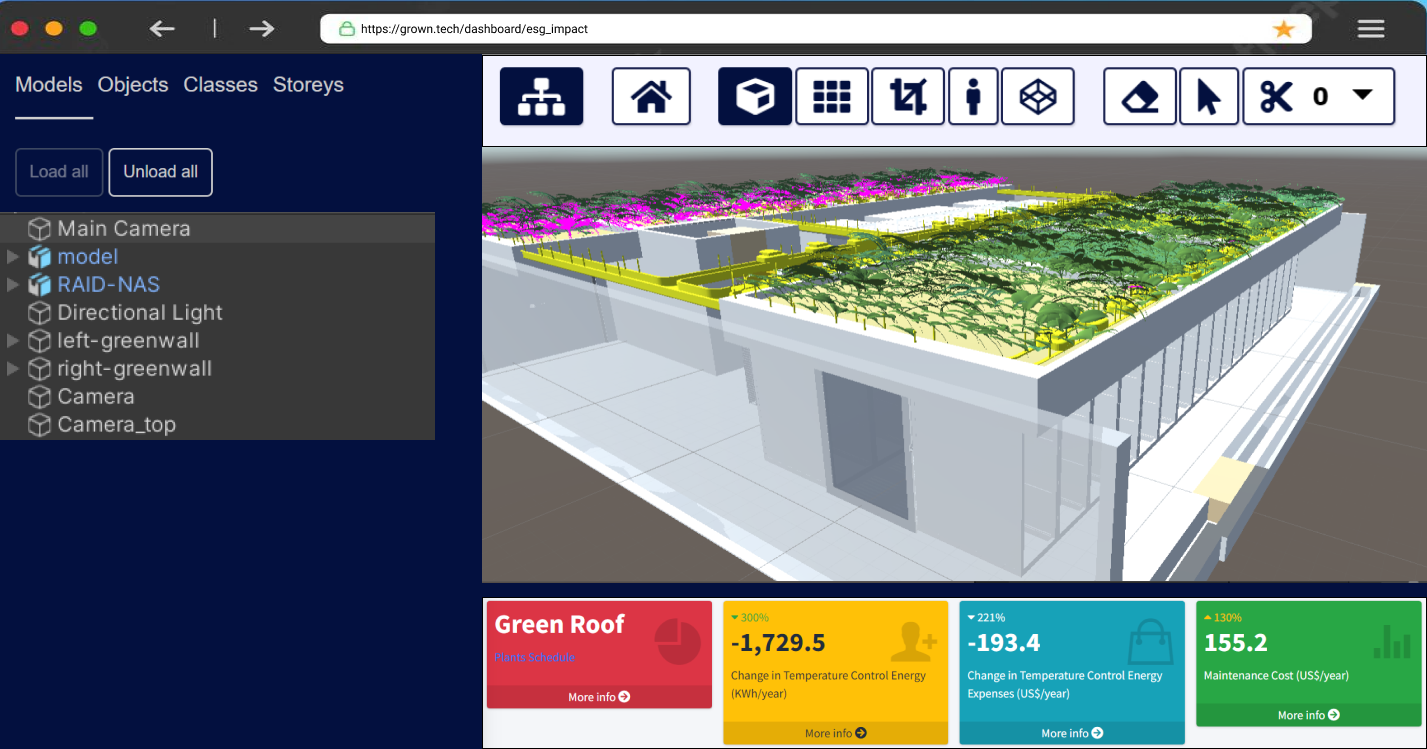
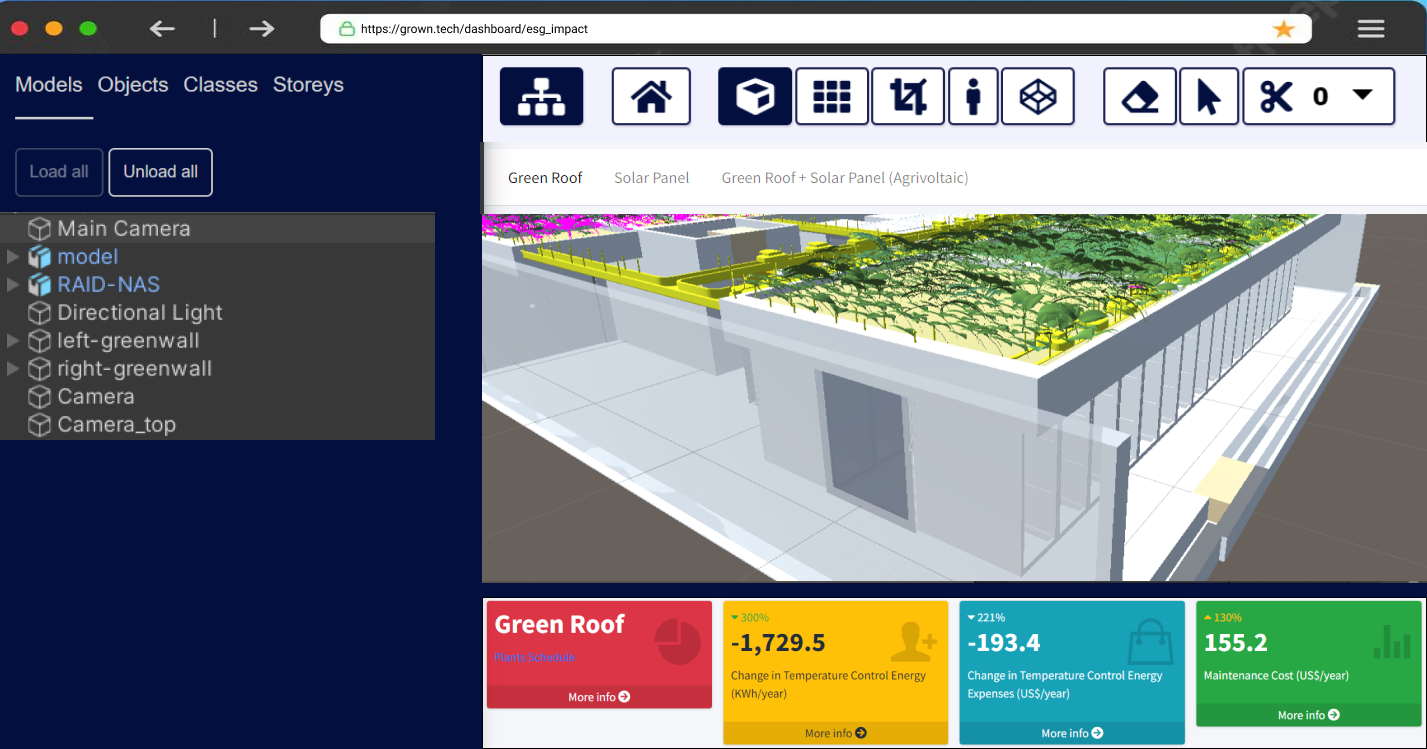
Add files via upload

Changed region(s): [[0.3392, 0.1842, 1.0, 0.3071]]

diff --git a/demo.html b/demo.html
@@ -58,6 +58,8 @@
 						<img class="img-fluid" src="assets/mainscreen.png" />
 						<h4 class="fw-bolder">Case Studies - Solar Panel</h4>
 						<img class="img-fluid" src="assets/solarpanel_mainscreen.png" />
+						<h4 class="fw-bolder">Case Studies - Green Roof + Solar Panel (Agrivoltaic)</h4>
+						<img class="img-fluid" src="assets/greenroof_solarpanelscreen.png" />
 					</div>
 				</div>
             </div>
